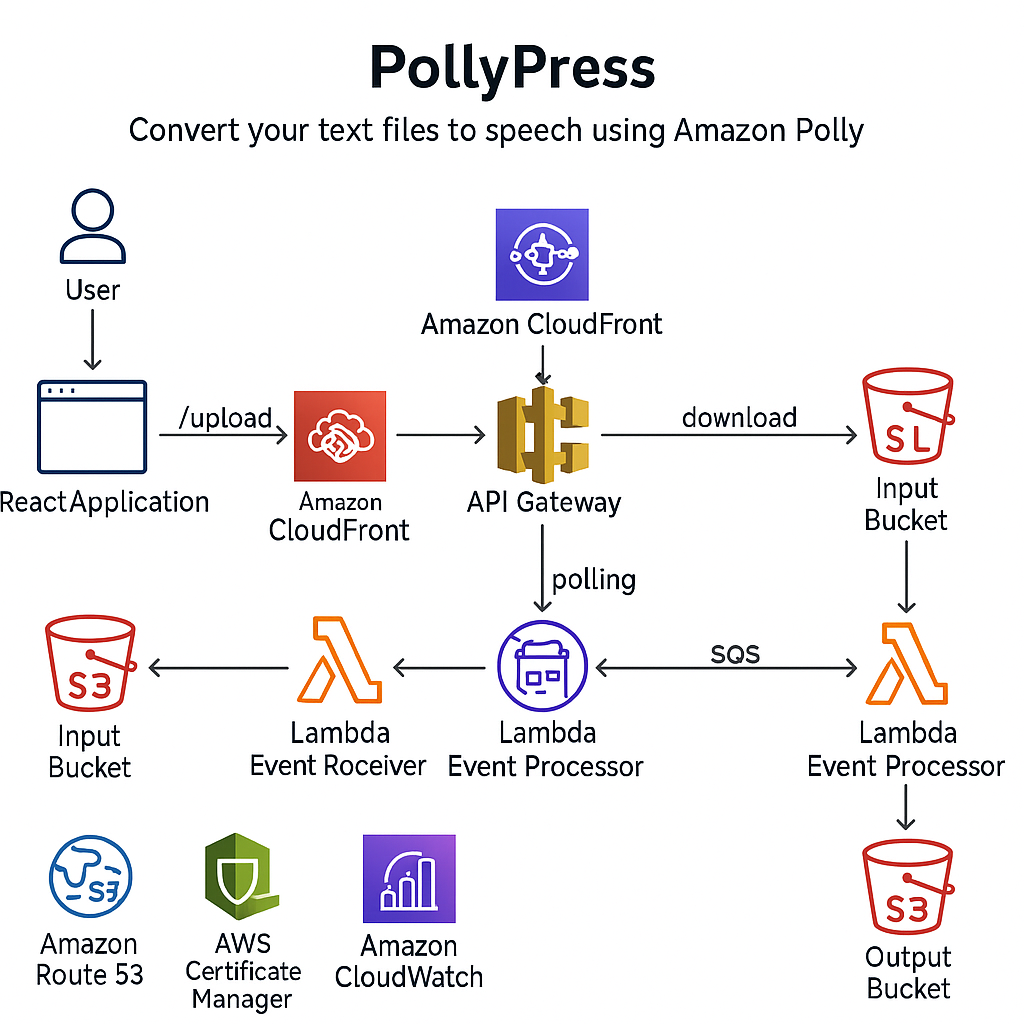
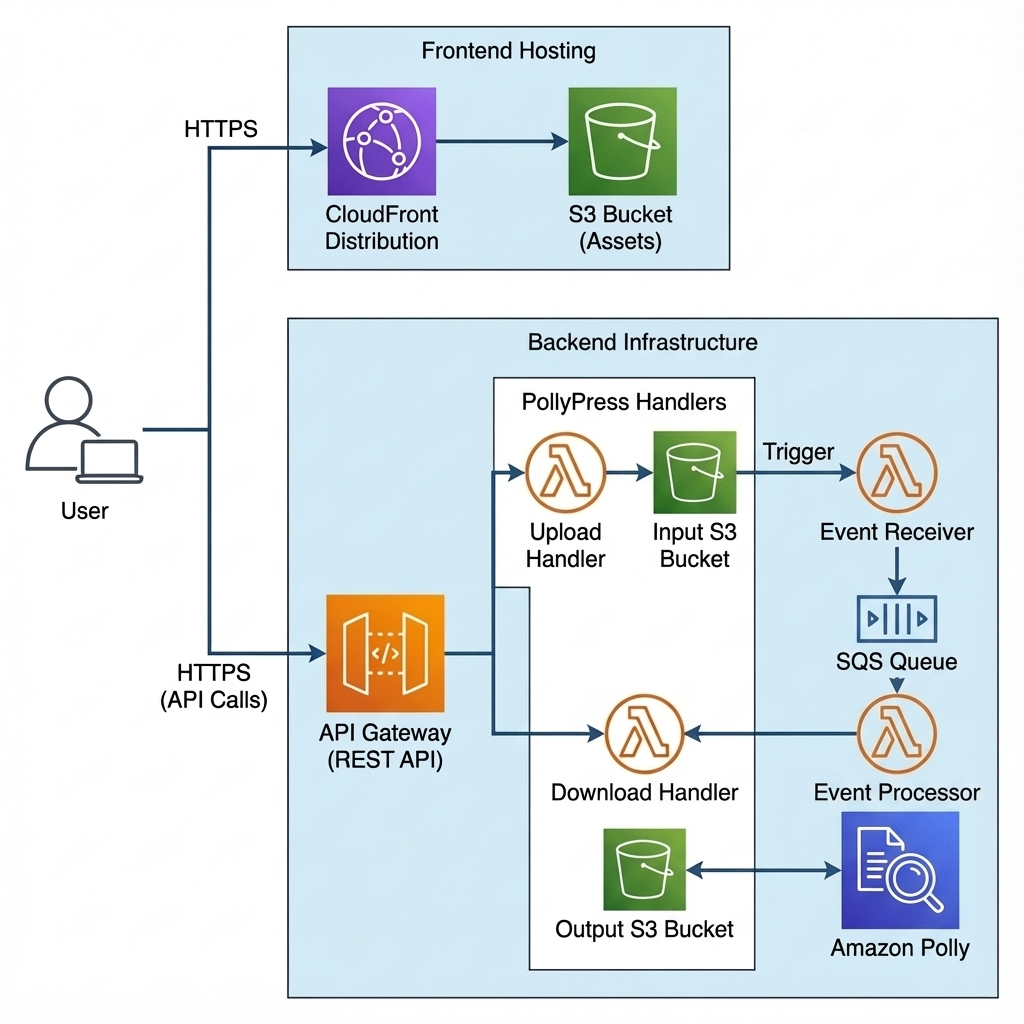
updated README and architectural

diff --git a/README.md b/README.md
@@ -1,167 +1,70 @@
 # PollyPress
 
-Convert your text documents to speech using Amazon Polly.
+A serverless text-to-speech application built with AWS CDK, React, API Gateway, Lambda, and Amazon Polly.
 
-## Overview
+![Architecture Diagram](./architecture.png)
 
-PollyPress is a simple, automated workflow that converts uploaded `.txt` files into spoken audio using **Amazon Polly**. Users upload a text file from a React frontend, and PollyPress returns a clean audio file they can listen to or download.
-
-## Tech Stack
-
-### Frontend
-- **React** + **TypeScript** with **Vite**
-- **Tailwind CSS v4** for styling
-- **React Dropzone** for drag-and-drop file uploads
-- Deployed to **S3 + CloudFront**
-
-### Backend (AWS)
-- **AWS CDK** (TypeScript) for infrastructure as code
-- **Amazon S3** - Storage for input text files and output audio files
-- **AWS Lambda** - Processing and API endpoints
-- **Amazon Polly** - Text-to-speech synthesis
-- **API Gateway** - RESTful API for frontend
-- **CloudFront** - CDN for frontend hosting
+## Features
+- **Serverless Architecture**: Fully serverless backend using AWS Lambda and API Gateway.
+- **React Frontend**: Interactive frontend built with Vite and React.
+- **Text-to-Speech**: Converts text files to audio using Amazon Polly.
+- **Asynchronous Processing**: Scalable event-driven architecture with SQS.
+- **Infrastructure as Code**: Complete infrastructure defined in AWS CDK.
+- **Secure Hosting**: Frontend delivered via CloudFront and S3 with HTTPS.
 
 ## Architecture
 
-### Architecture Diagram
+The system follows a clean, serverless architecture:
+1.  **Frontend**: Users access the React application hosted on S3 and served via CloudFront.
+2.  **API**: API Gateway routes RESTful requests to specific Lambda handlers.
+3.  **Logic**: Node.js Lambda functions handle uploads, downloads, and event processing.
+4.  **Processing**: SQS and Lambda coordinate with Amazon Polly for speech synthesis.
+5.  **Storage**: S3 stores input text files and output audio files.
 
-![PollyPress Architecture](./architecture.png)
+## Prerequisites
 
-### Stack Architecture
+- Node.js (v22.x)
+- AWS CLI configured with appropriate credentials (profile `promie`)
+- AWS CDK installed globally (`npm install -g aws-cdk`)
 
-**Certificate Stacks (us-east-1 for frontend, regional for backend):**
-- Frontend ACM certificate in us-east-1 (CloudFront requirement)
-- Backend ACM certificate in deployment region (API Gateway requirement)
-- DNS validation via Route 53
-- Separate certificates for frontend and backend subdomains
+## Quick Start
 
-**Backend Stack:**
-- **S3 Buckets:**
-  - Input bucket with 7-day lifecycle policy
-  - Output bucket with 30-day lifecycle policy
-  - CORS configured for direct uploads
-- **Lambda Functions:**
-  - Upload Handler - Generates presigned URLs for uploads
-  - Download Handler - Generates presigned URLs for downloads
-  - Event Receiver - Processes S3 events and queues messages
-  - Event Processor - Synthesizes speech with Polly
-- **SQS Queue:**
-  - Processing queue with dead-letter queue
-  - Batch processing for efficiency
-- **API Gateway:**
-  - `/upload` (POST) - Request presigned upload URL
-  - `/download` (GET) - Request presigned download URL
-  - `/status` (GET) - Health check endpoint
-  - CloudWatch logging enabled
-- **IAM Roles:**
-  - Lambda execution roles
-  - S3 read/write permissions
-  - Polly synthesize speech permissions
-  - CloudWatch Logs role for API Gateway
+1.  **Install Dependencies**
+    ```bash
+    npm install
+    ```
 
-**Frontend Stack:**
-- S3 bucket for static hosting
-- CloudFront distribution with Origin Access Control (OAC)
-- Automated deployment from `frontend/dist/`
-- Custom domain with ACM certificate
-- Route 53 alias record for custom domain
+2.  **Deploy to AWS**
+    ```bash
+    npm run deploy
+    ```
 
-## Setup
+3.  **Run Frontend Locally**
+    ```bash
+    npm run dev
+    ```
 
-### Prerequisites
-- Node.js 22.x
-- AWS CLI configured with profile `promie`
-- AWS CDK CLI installed globally
+## API Endpoints
 
-### Installation
+| Method | Endpoint | Description |
+| :--- | :--- | :--- |
+| `POST` | `/upload` | Request presigned upload URL |
+| `GET` | `/download` | Request presigned download URL |
+| `GET` | `/status` | API health check |
 
-1. **Clone and install dependencies:**
-   ```bash
-   npm install
-   cd frontend && npm install
-   ```
+## Project Structure
 
-2. **Configure environment variables:**
-   Create a `.env` file in the root:
-   ```
-   CDK_DEPLOY_ACCOUNT=<your-aws-account-id>
-   CDK_DEPLOY_REGION=ap-southeast-2
-   APP_NAME=PollyPress
-   STAGE=staging
-   DOMAIN_NAME=yourdomain.com
-   FRONTEND_SUBDOMAIN=pollypress
-   BACKEND_SUBDOMAIN=api.pollypress
-   ```
+- `frontend/`: React application and assets.
+- `app/`: Lambda handlers and business logic.
+- `infra/`: AWS CDK infrastructure stacks and constructs.
 
-3. **Bootstrap CDK (first time only):**
+The `cdk.json` file tells the CDK Toolkit how to execute your app.
 
-   Bootstrap your primary region:
-   ```bash
-   AWS_PROFILE=promie npx cdk bootstrap aws://<account-id>/ap-southeast-2
-   ```
+## Useful commands
 
-   If using custom domains, also bootstrap us-east-1 (required for CloudFront certificates):
-   ```bash
-   AWS_PROFILE=promie npx cdk bootstrap aws://<account-id>/us-east-1
-   ```
-
-## Development
-
-### Run Frontend Locally
-```bash
-npm run dev
-```
-
-### Build Frontend
-```bash
-cd frontend && npm run build
-```
-
-### Build CDK
-```bash
-npm run build
-```
-
-### Deploy Infrastructure Only
-```bash
-npm run deploy:infra
-```
-
-### Deploy Everything (Frontend + Backend)
-```bash
-npm run deploy
-```
-
-## Deployment
-
-The deployment process:
-
-1. **Build frontend** - Compiles React app to `frontend/dist/`
-2. **Build CDK** - Compiles TypeScript infrastructure code
-3. **Deploy Backend Stack** - Creates S3, Lambda, API Gateway
-4. **Deploy Frontend Stack** - Uploads frontend to S3, creates CloudFront distribution
-
-First deployment takes ~5-10 minutes due to CloudFront provisioning.
-
-### Stack Outputs
-
-After deployment, you'll see:
-
-**Frontend Certificate Stack (if custom domain configured):**
-- `CertificateArn` - ACM certificate ARN in us-east-1
-
-**Backend Certificate Stack (if custom domain configured):**
-- `CertificateArn` - ACM certificate ARN in deployment region
-
-**Backend Stack:**
-- `ApiUrl` - API Gateway endpoint or custom domain (e.g., `https://api.yourdomain.com`)
-- `InputBucket` - S3 input bucket name
-- `OutputBucket` - S3 output bucket name
-- `CustomDomain` - API custom domain (if configured)
-
-**Frontend Stack:**
-- `FrontendUrl` - Custom domain or CloudFront URL (e.g., `https://pollypress.yourdomain.com`)
-- `CloudFrontUrl` - CloudFront distribution URL
-- `CustomDomain` - Frontend custom domain (if configured)
-- `FrontendBucket` - S3 bucket name
+* `npm run build`   compile typescript to js
+* `npm run watch`   watch for changes and compile
+* `npm run test`    perform the jest unit tests
+* `npx cdk deploy`  deploy this stack to your default AWS account/region
+* `npx cdk diff`    compare deployed stack with current state
+* `npx cdk synth`   emits the synthesized CloudFormation template
